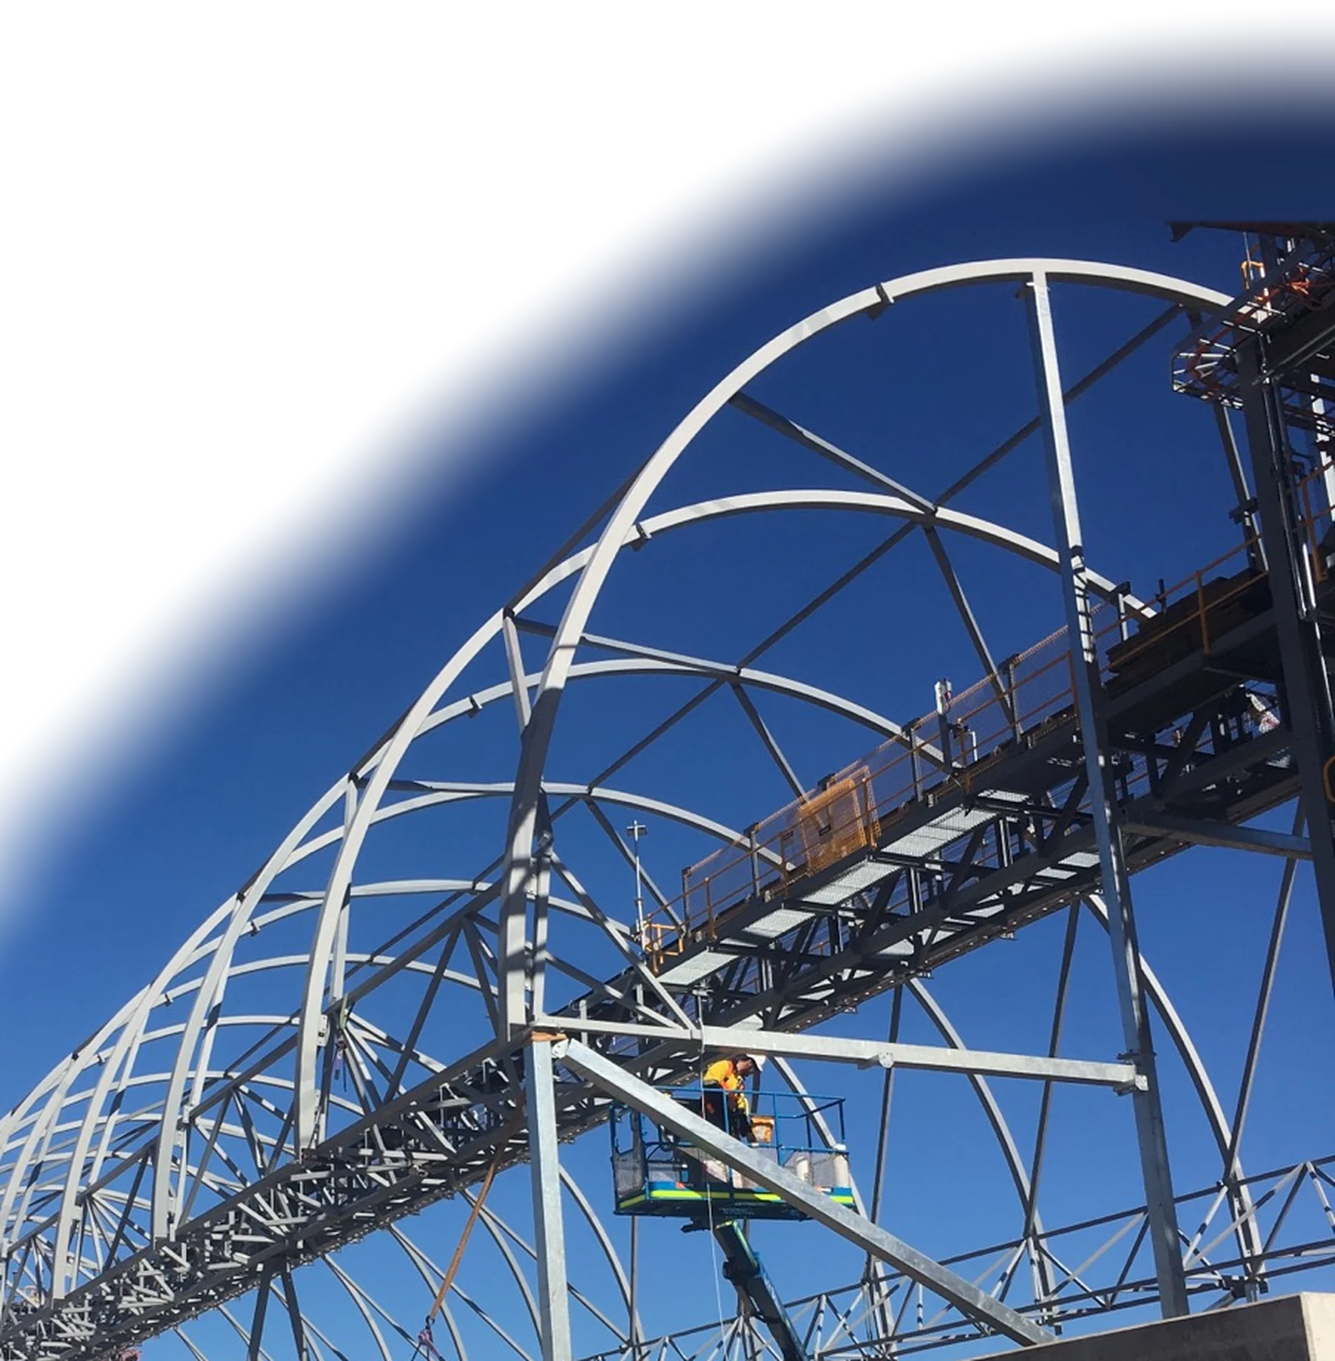
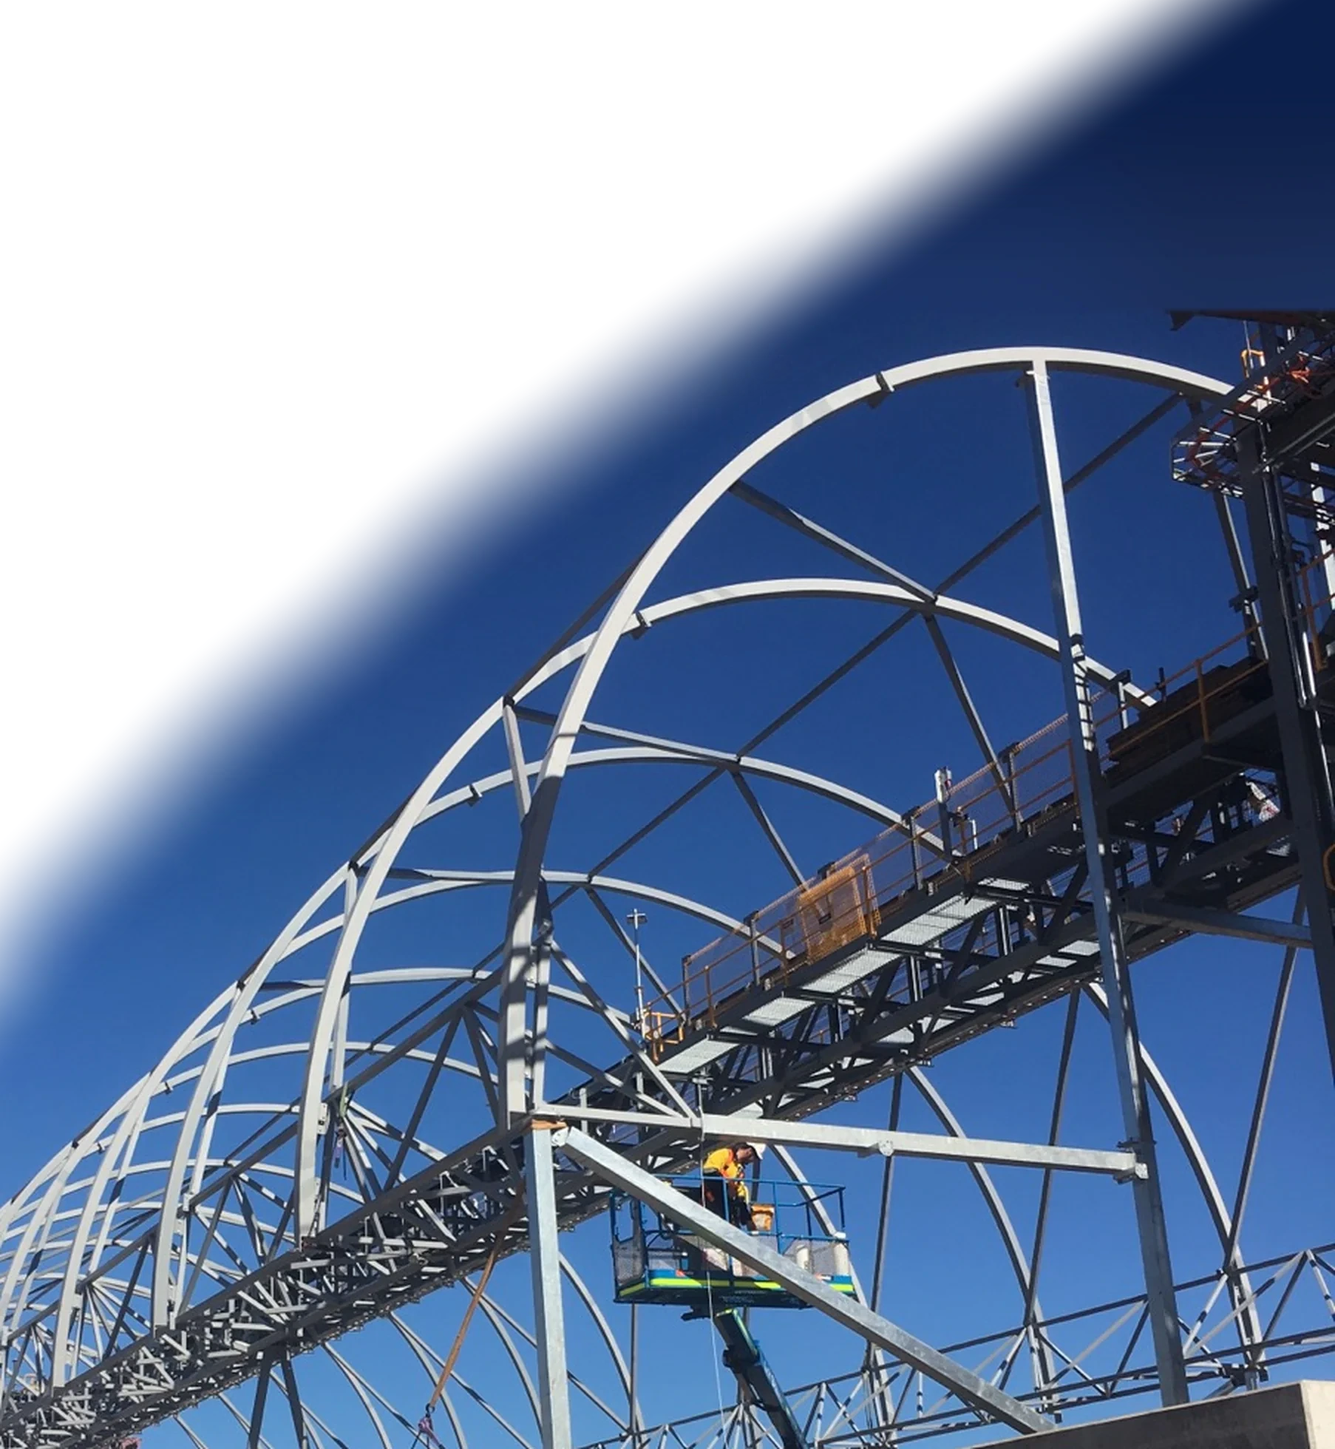
Hero photo: sky deepens to navy at the top and runs under the nav bar; curve fades to white on the left
Claude-Session: https://claude.ai/code/session_0158Fftx2yiYDSvStLzRsbkD

diff --git a/site/index.html b/site/index.html
@@ -2,16 +2,16 @@
 <html lang="en">
 <head>
 <meta charset="utf-8">
-<meta name="build" content="55">
+<meta name="build" content="56">
 <meta name="viewport" content="width=device-width, initial-scale=1, viewport-fit=cover">
 <meta name="description" content="GuruCADD: production drawings, conceptual sales drawings, light gauge modular building design and CAD-to-ERP integration for fabric structures and steel fabricators. Based in Khulna, Bangladesh.">
 <meta property="og:title" content="GuruCADD | Designing Excellence">
 <meta property="og:description" content="CAD and steel detailing for fabric structures, steel frames and modular buildings.">
-<meta property="og:image" content="https://www.gurucadd.com/images/hero-site.webp?v=55">
+<meta property="og:image" content="https://www.gurucadd.com/images/hero-site.webp?v=56">
 <link rel="icon" type="image/png" href="images/favicon.png">
 <link rel="canonical" href="https://www.gurucadd.com/">
 <meta property="og:type" content="website"><meta property="og:url" content="https://www.gurucadd.com/"><meta name="twitter:card" content="summary_large_image">
-<script type="application/ld+json">{"@context":"https://schema.org","@type":"ProfessionalService","name":"GuruCADD","description":"CAD and steel detailing, conceptual sales drawings, light gauge modular building design and CAD-to-ERP integration.","url":"https://www.gurucadd.com/","logo":"https://www.gurucadd.com/images/favicon.png","image":"https://www.gurucadd.com/images/hero-site.webp?v=55","telephone":"+880 1711 902929","email":"info@gurucadd.com","address":{"@type":"PostalAddress","streetAddress":"E4 Khalishpur","addressLocality":"Khulna","postalCode":"9000","addressCountry":"BD"}}</script>
+<script type="application/ld+json">{"@context":"https://schema.org","@type":"ProfessionalService","name":"GuruCADD","description":"CAD and steel detailing, conceptual sales drawings, light gauge modular building design and CAD-to-ERP integration.","url":"https://www.gurucadd.com/","logo":"https://www.gurucadd.com/images/favicon.png","image":"https://www.gurucadd.com/images/hero-site.webp?v=56","telephone":"+880 1711 902929","email":"info@gurucadd.com","address":{"@type":"PostalAddress","streetAddress":"E4 Khalishpur","addressLocality":"Khulna","postalCode":"9000","addressCountry":"BD"}}</script>
 <style>
 :root{padding-top:env(safe-area-inset-top,0px);padding-bottom:env(safe-area-inset-bottom,0px)}
 body{margin:0}
@@ -446,10 +446,10 @@ header.lt .tfpill b{color:#0f2a5c}
 .hero-photo img{border-radius:0;box-shadow:none;width:min(76%,1200px);margin-left:auto;margin-right:0;aspect-ratio:auto;height:auto;max-height:none;min-height:0;object-fit:contain;
 -webkit-mask-image:linear-gradient(to right,transparent 0,#000 34%),linear-gradient(to bottom,transparent 0,#000 12%,#000 82%,transparent 100%);-webkit-mask-composite:source-in;
 mask-image:linear-gradient(to right,transparent 0,#000 34%),linear-gradient(to bottom,transparent 0,#000 12%,#000 82%,transparent 100%);mask-composite:intersect}
-.hero-photo{z-index:0;margin-top:-640px}@media (min-width:901px){.hero-white .hero-copy{min-height:560px;align-content:start;align-items:start;grid-auto-rows:max-content}}
+.hero-photo{z-index:0;margin-top:-720px}@media (min-width:901px){.hero-white .hero-copy{min-height:560px;align-content:start;align-items:start;grid-auto-rows:max-content}}
 .hero .gantt{display:none}
 .hero-photo .ph-tag{z-index:2}
-.hero-photo .ph-right{right:max(24px,calc((100vw - 1200px)/2 + 16px));top:430px}
+.hero-photo .ph-right{right:max(24px,calc((100vw - 1200px)/2 + 16px));top:510px}
 .hero-photo figcaption{margin-top:-70px;position:relative;z-index:2}
 @media (max-width:900px){.hero-photo{margin-top:0}.hero-photo img{width:100%;margin:0}.hero-photo .ph-right{top:70px}}
 /* white hero (remove class "hero-white" from <div class="hero"> or open /?hero=blue to see the blue one) */
@@ -469,7 +469,7 @@ mask-image:linear-gradient(to right,transparent 0,#000 34%),linear-gradient(to b
 </style>
 </head>
 <body>
-<span id="build" class="bld">Ver 0.55.0</span>
+<span id="build" class="bld">Ver 0.56.0</span>
 <header>
   <div class="wrap nav">
     <a class="logo" href="#top" aria-label="GuruCADD home"><img class="dk-logo" src="images/logo-white.png" width="421" height="120" alt="GuruCADD, Designing Excellence"><img class="lt-logo" src="images/logo-color.png" width="878" height="238" alt="" aria-hidden="true"></a>
@@ -494,7 +494,7 @@ mask-image:linear-gradient(to right,transparent 0,#000 34%),linear-gradient(to b
     </div>
   </div>
   <figure class="hero-photo">
-    <img src="images/hero-site.webp?v=55" width="1806" height="1840" alt="Arched steel structure erected on site against a deep blue sky, detailed by GuruCADD">
+    <img src="images/hero-site.webp?v=56" width="1806" height="1960" alt="Arched steel structure erected on site against a deep blue sky, detailed by GuruCADD">
     <span class="ph-tag ph-right">Erected on site</span>
     <figcaption><span class="wrap cap-in"><span class="kicker">From drawing to steel</span><span>Detailed in our office, built exactly as drawn to protect your investment.</span></span></figcaption>
   </figure>

diff --git a/site/about-us.html b/site/about-us.html
@@ -2,16 +2,16 @@
 <html lang="en">
 <head>
 <meta charset="utf-8">
-<meta name="build" content="55">
+<meta name="build" content="56">
 <meta name="viewport" content="width=device-width, initial-scale=1, viewport-fit=cover">
 <meta name="description" content="A Khulna drawing office of architects, engineers and ERP specialists, with industries served and case studies.">
 <meta property="og:title" content="About us | GuruCADD">
 <meta property="og:description" content="CAD and steel detailing for fabric structures, steel frames and modular buildings.">
-<meta property="og:image" content="https://www.gurucadd.com/images/hero-site.webp?v=55">
+<meta property="og:image" content="https://www.gurucadd.com/images/hero-site.webp?v=56">
 <link rel="icon" type="image/png" href="images/favicon.png">
 
 <meta property="og:type" content="website"><meta property="og:url" content="https://www.gurucadd.com/"><meta name="twitter:card" content="summary_large_image">
-<script type="application/ld+json">{"@context":"https://schema.org","@type":"ProfessionalService","name":"GuruCADD","description":"CAD and steel detailing, conceptual sales drawings, light gauge modular building design and CAD-to-ERP integration.","url":"https://www.gurucadd.com/","logo":"https://www.gurucadd.com/images/favicon.png","image":"https://www.gurucadd.com/images/hero-site.webp?v=55","telephone":"+880 1711 902929","email":"info@gurucadd.com","address":{"@type":"PostalAddress","streetAddress":"E4 Khalishpur","addressLocality":"Khulna","postalCode":"9000","addressCountry":"BD"}}</script>
+<script type="application/ld+json">{"@context":"https://schema.org","@type":"ProfessionalService","name":"GuruCADD","description":"CAD and steel detailing, conceptual sales drawings, light gauge modular building design and CAD-to-ERP integration.","url":"https://www.gurucadd.com/","logo":"https://www.gurucadd.com/images/favicon.png","image":"https://www.gurucadd.com/images/hero-site.webp?v=56","telephone":"+880 1711 902929","email":"info@gurucadd.com","address":{"@type":"PostalAddress","streetAddress":"E4 Khalishpur","addressLocality":"Khulna","postalCode":"9000","addressCountry":"BD"}}</script>
 <style>
 :root{padding-top:env(safe-area-inset-top,0px);padding-bottom:env(safe-area-inset-bottom,0px)}
 body{margin:0}
@@ -446,10 +446,10 @@ header.lt .tfpill b{color:#0f2a5c}
 .hero-photo img{border-radius:0;box-shadow:none;width:min(76%,1200px);margin-left:auto;margin-right:0;aspect-ratio:auto;height:auto;max-height:none;min-height:0;object-fit:contain;
 -webkit-mask-image:linear-gradient(to right,transparent 0,#000 34%),linear-gradient(to bottom,transparent 0,#000 12%,#000 82%,transparent 100%);-webkit-mask-composite:source-in;
 mask-image:linear-gradient(to right,transparent 0,#000 34%),linear-gradient(to bottom,transparent 0,#000 12%,#000 82%,transparent 100%);mask-composite:intersect}
-.hero-photo{z-index:0;margin-top:-640px}@media (min-width:901px){.hero-white .hero-copy{min-height:560px;align-content:start;align-items:start;grid-auto-rows:max-content}}
+.hero-photo{z-index:0;margin-top:-720px}@media (min-width:901px){.hero-white .hero-copy{min-height:560px;align-content:start;align-items:start;grid-auto-rows:max-content}}
 .hero .gantt{display:none}
 .hero-photo .ph-tag{z-index:2}
-.hero-photo .ph-right{right:max(24px,calc((100vw - 1200px)/2 + 16px));top:430px}
+.hero-photo .ph-right{right:max(24px,calc((100vw - 1200px)/2 + 16px));top:510px}
 .hero-photo figcaption{margin-top:-70px;position:relative;z-index:2}
 @media (max-width:900px){.hero-photo{margin-top:0}.hero-photo img{width:100%;margin:0}.hero-photo .ph-right{top:70px}}
 /* white hero (remove class "hero-white" from <div class="hero"> or open /?hero=blue to see the blue one) */
@@ -470,7 +470,7 @@ mask-image:linear-gradient(to right,transparent 0,#000 34%),linear-gradient(to b
 <link rel="canonical" href="https://www.gurucadd.com/about-us.html">
 </head>
 <body>
-<span id="build" class="bld">Ver 0.55.0</span>
+<span id="build" class="bld">Ver 0.56.0</span>
 <header>
   <div class="wrap nav">
     <a class="logo" href="index.html" aria-label="GuruCADD home"><img class="dk-logo" src="images/logo-white.png" width="421" height="120" alt="GuruCADD, Designing Excellence"><img class="lt-logo" src="images/logo-color.png" width="878" height="238" alt="" aria-hidden="true"></a>

diff --git a/site/services.html b/site/services.html
@@ -2,16 +2,16 @@
 <html lang="en">
 <head>
 <meta charset="utf-8">
-<meta name="build" content="55">
+<meta name="build" content="56">
 <meta name="viewport" content="width=device-width, initial-scale=1, viewport-fit=cover">
 <meta name="description" content="Production drawings, conceptual sales drawings, ERP integration and light gauge modular building design.">
 <meta property="og:title" content="Services | GuruCADD">
 <meta property="og:description" content="CAD and steel detailing for fabric structures, steel frames and modular buildings.">
-<meta property="og:image" content="https://www.gurucadd.com/images/hero-site.webp?v=55">
+<meta property="og:image" content="https://www.gurucadd.com/images/hero-site.webp?v=56">
 <link rel="icon" type="image/png" href="images/favicon.png">
 
 <meta property="og:type" content="website"><meta property="og:url" content="https://www.gurucadd.com/"><meta name="twitter:card" content="summary_large_image">
-<script type="application/ld+json">{"@context":"https://schema.org","@type":"ProfessionalService","name":"GuruCADD","description":"CAD and steel detailing, conceptual sales drawings, light gauge modular building design and CAD-to-ERP integration.","url":"https://www.gurucadd.com/","logo":"https://www.gurucadd.com/images/favicon.png","image":"https://www.gurucadd.com/images/hero-site.webp?v=55","telephone":"+880 1711 902929","email":"info@gurucadd.com","address":{"@type":"PostalAddress","streetAddress":"E4 Khalishpur","addressLocality":"Khulna","postalCode":"9000","addressCountry":"BD"}}</script>
+<script type="application/ld+json">{"@context":"https://schema.org","@type":"ProfessionalService","name":"GuruCADD","description":"CAD and steel detailing, conceptual sales drawings, light gauge modular building design and CAD-to-ERP integration.","url":"https://www.gurucadd.com/","logo":"https://www.gurucadd.com/images/favicon.png","image":"https://www.gurucadd.com/images/hero-site.webp?v=56","telephone":"+880 1711 902929","email":"info@gurucadd.com","address":{"@type":"PostalAddress","streetAddress":"E4 Khalishpur","addressLocality":"Khulna","postalCode":"9000","addressCountry":"BD"}}</script>
 <style>
 :root{padding-top:env(safe-area-inset-top,0px);padding-bottom:env(safe-area-inset-bottom,0px)}
 body{margin:0}
@@ -446,10 +446,10 @@ header.lt .tfpill b{color:#0f2a5c}
 .hero-photo img{border-radius:0;box-shadow:none;width:min(76%,1200px);margin-left:auto;margin-right:0;aspect-ratio:auto;height:auto;max-height:none;min-height:0;object-fit:contain;
 -webkit-mask-image:linear-gradient(to right,transparent 0,#000 34%),linear-gradient(to bottom,transparent 0,#000 12%,#000 82%,transparent 100%);-webkit-mask-composite:source-in;
 mask-image:linear-gradient(to right,transparent 0,#000 34%),linear-gradient(to bottom,transparent 0,#000 12%,#000 82%,transparent 100%);mask-composite:intersect}
-.hero-photo{z-index:0;margin-top:-640px}@media (min-width:901px){.hero-white .hero-copy{min-height:560px;align-content:start;align-items:start;grid-auto-rows:max-content}}
+.hero-photo{z-index:0;margin-top:-720px}@media (min-width:901px){.hero-white .hero-copy{min-height:560px;align-content:start;align-items:start;grid-auto-rows:max-content}}
 .hero .gantt{display:none}
 .hero-photo .ph-tag{z-index:2}
-.hero-photo .ph-right{right:max(24px,calc((100vw - 1200px)/2 + 16px));top:430px}
+.hero-photo .ph-right{right:max(24px,calc((100vw - 1200px)/2 + 16px));top:510px}
 .hero-photo figcaption{margin-top:-70px;position:relative;z-index:2}
 @media (max-width:900px){.hero-photo{margin-top:0}.hero-photo img{width:100%;margin:0}.hero-photo .ph-right{top:70px}}
 /* white hero (remove class "hero-white" from <div class="hero"> or open /?hero=blue to see the blue one) */
@@ -470,7 +470,7 @@ mask-image:linear-gradient(to right,transparent 0,#000 34%),linear-gradient(to b
 <link rel="canonical" href="https://www.gurucadd.com/services.html">
 </head>
 <body>
-<span id="build" class="bld">Ver 0.55.0</span>
+<span id="build" class="bld">Ver 0.56.0</span>
 <header>
   <div class="wrap nav">
     <a class="logo" href="index.html" aria-label="GuruCADD home"><img class="dk-logo" src="images/logo-white.png" width="421" height="120" alt="GuruCADD, Designing Excellence"><img class="lt-logo" src="images/logo-color.png" width="878" height="238" alt="" aria-hidden="true"></a>

diff --git a/site/contact-us.html b/site/contact-us.html
@@ -2,16 +2,16 @@
 <html lang="en">
 <head>
 <meta charset="utf-8">
-<meta name="build" content="55">
+<meta name="build" content="56">
 <meta name="viewport" content="width=device-width, initial-scale=1, viewport-fit=cover">
 <meta name="description" content="Send a sketch or project details and get a free quote from GuruCADD, Khulna, Bangladesh.">
 <meta property="og:title" content="Contact | GuruCADD">
 <meta property="og:description" content="CAD and steel detailing for fabric structures, steel frames and modular buildings.">
-<meta property="og:image" content="https://www.gurucadd.com/images/hero-site.webp?v=55">
+<meta property="og:image" content="https://www.gurucadd.com/images/hero-site.webp?v=56">
 <link rel="icon" type="image/png" href="images/favicon.png">
 
 <meta property="og:type" content="website"><meta property="og:url" content="https://www.gurucadd.com/"><meta name="twitter:card" content="summary_large_image">
-<script type="application/ld+json">{"@context":"https://schema.org","@type":"ProfessionalService","name":"GuruCADD","description":"CAD and steel detailing, conceptual sales drawings, light gauge modular building design and CAD-to-ERP integration.","url":"https://www.gurucadd.com/","logo":"https://www.gurucadd.com/images/favicon.png","image":"https://www.gurucadd.com/images/hero-site.webp?v=55","telephone":"+880 1711 902929","email":"info@gurucadd.com","address":{"@type":"PostalAddress","streetAddress":"E4 Khalishpur","addressLocality":"Khulna","postalCode":"9000","addressCountry":"BD"}}</script>
+<script type="application/ld+json">{"@context":"https://schema.org","@type":"ProfessionalService","name":"GuruCADD","description":"CAD and steel detailing, conceptual sales drawings, light gauge modular building design and CAD-to-ERP integration.","url":"https://www.gurucadd.com/","logo":"https://www.gurucadd.com/images/favicon.png","image":"https://www.gurucadd.com/images/hero-site.webp?v=56","telephone":"+880 1711 902929","email":"info@gurucadd.com","address":{"@type":"PostalAddress","streetAddress":"E4 Khalishpur","addressLocality":"Khulna","postalCode":"9000","addressCountry":"BD"}}</script>
 <style>
 :root{padding-top:env(safe-area-inset-top,0px);padding-bottom:env(safe-area-inset-bottom,0px)}
 body{margin:0}
@@ -446,10 +446,10 @@ header.lt .tfpill b{color:#0f2a5c}
 .hero-photo img{border-radius:0;box-shadow:none;width:min(76%,1200px);margin-left:auto;margin-right:0;aspect-ratio:auto;height:auto;max-height:none;min-height:0;object-fit:contain;
 -webkit-mask-image:linear-gradient(to right,transparent 0,#000 34%),linear-gradient(to bottom,transparent 0,#000 12%,#000 82%,transparent 100%);-webkit-mask-composite:source-in;
 mask-image:linear-gradient(to right,transparent 0,#000 34%),linear-gradient(to bottom,transparent 0,#000 12%,#000 82%,transparent 100%);mask-composite:intersect}
-.hero-photo{z-index:0;margin-top:-640px}@media (min-width:901px){.hero-white .hero-copy{min-height:560px;align-content:start;align-items:start;grid-auto-rows:max-content}}
+.hero-photo{z-index:0;margin-top:-720px}@media (min-width:901px){.hero-white .hero-copy{min-height:560px;align-content:start;align-items:start;grid-auto-rows:max-content}}
 .hero .gantt{display:none}
 .hero-photo .ph-tag{z-index:2}
-.hero-photo .ph-right{right:max(24px,calc((100vw - 1200px)/2 + 16px));top:430px}
+.hero-photo .ph-right{right:max(24px,calc((100vw - 1200px)/2 + 16px));top:510px}
 .hero-photo figcaption{margin-top:-70px;position:relative;z-index:2}
 @media (max-width:900px){.hero-photo{margin-top:0}.hero-photo img{width:100%;margin:0}.hero-photo .ph-right{top:70px}}
 /* white hero (remove class "hero-white" from <div class="hero"> or open /?hero=blue to see the blue one) */
@@ -470,7 +470,7 @@ mask-image:linear-gradient(to right,transparent 0,#000 34%),linear-gradient(to b
 <link rel="canonical" href="https://www.gurucadd.com/contact-us.html">
 </head>
 <body>
-<span id="build" class="bld">Ver 0.55.0</span>
+<span id="build" class="bld">Ver 0.56.0</span>
 <header>
   <div class="wrap nav">
     <a class="logo" href="index.html" aria-label="GuruCADD home"><img class="dk-logo" src="images/logo-white.png" width="421" height="120" alt="GuruCADD, Designing Excellence"><img class="lt-logo" src="images/logo-color.png" width="878" height="238" alt="" aria-hidden="true"></a>

diff --git a/site/gallery.html b/site/gallery.html
@@ -2,16 +2,16 @@
 <html lang="en">
 <head>
 <meta charset="utf-8">
-<meta name="build" content="55">
+<meta name="build" content="56">
 <meta name="viewport" content="width=device-width, initial-scale=1, viewport-fit=cover">
 <meta name="description" content="Real production, conceptual and modular drawing sheets from GuruCADD projects.">
 <meta property="og:title" content="Drawing samples | GuruCADD">
 <meta property="og:description" content="CAD and steel detailing for fabric structures, steel frames and modular buildings.">
-<meta property="og:image" content="https://www.gurucadd.com/images/hero-site.webp?v=55">
+<meta property="og:image" content="https://www.gurucadd.com/images/hero-site.webp?v=56">
 <link rel="icon" type="image/png" href="images/favicon.png">
 
 <meta property="og:type" content="website"><meta property="og:url" content="https://www.gurucadd.com/"><meta name="twitter:card" content="summary_large_image">
-<script type="application/ld+json">{"@context":"https://schema.org","@type":"ProfessionalService","name":"GuruCADD","description":"CAD and steel detailing, conceptual sales drawings, light gauge modular building design and CAD-to-ERP integration.","url":"https://www.gurucadd.com/","logo":"https://www.gurucadd.com/images/favicon.png","image":"https://www.gurucadd.com/images/hero-site.webp?v=55","telephone":"+880 1711 902929","email":"info@gurucadd.com","address":{"@type":"PostalAddress","streetAddress":"E4 Khalishpur","addressLocality":"Khulna","postalCode":"9000","addressCountry":"BD"}}</script>
+<script type="application/ld+json">{"@context":"https://schema.org","@type":"ProfessionalService","name":"GuruCADD","description":"CAD and steel detailing, conceptual sales drawings, light gauge modular building design and CAD-to-ERP integration.","url":"https://www.gurucadd.com/","logo":"https://www.gurucadd.com/images/favicon.png","image":"https://www.gurucadd.com/images/hero-site.webp?v=56","telephone":"+880 1711 902929","email":"info@gurucadd.com","address":{"@type":"PostalAddress","streetAddress":"E4 Khalishpur","addressLocality":"Khulna","postalCode":"9000","addressCountry":"BD"}}</script>
 <style>
 :root{padding-top:env(safe-area-inset-top,0px);padding-bottom:env(safe-area-inset-bottom,0px)}
 body{margin:0}
@@ -446,10 +446,10 @@ header.lt .tfpill b{color:#0f2a5c}
 .hero-photo img{border-radius:0;box-shadow:none;width:min(76%,1200px);margin-left:auto;margin-right:0;aspect-ratio:auto;height:auto;max-height:none;min-height:0;object-fit:contain;
 -webkit-mask-image:linear-gradient(to right,transparent 0,#000 34%),linear-gradient(to bottom,transparent 0,#000 12%,#000 82%,transparent 100%);-webkit-mask-composite:source-in;
 mask-image:linear-gradient(to right,transparent 0,#000 34%),linear-gradient(to bottom,transparent 0,#000 12%,#000 82%,transparent 100%);mask-composite:intersect}
-.hero-photo{z-index:0;margin-top:-640px}@media (min-width:901px){.hero-white .hero-copy{min-height:560px;align-content:start;align-items:start;grid-auto-rows:max-content}}
+.hero-photo{z-index:0;margin-top:-720px}@media (min-width:901px){.hero-white .hero-copy{min-height:560px;align-content:start;align-items:start;grid-auto-rows:max-content}}
 .hero .gantt{display:none}
 .hero-photo .ph-tag{z-index:2}
-.hero-photo .ph-right{right:max(24px,calc((100vw - 1200px)/2 + 16px));top:430px}
+.hero-photo .ph-right{right:max(24px,calc((100vw - 1200px)/2 + 16px));top:510px}
 .hero-photo figcaption{margin-top:-70px;position:relative;z-index:2}
 @media (max-width:900px){.hero-photo{margin-top:0}.hero-photo img{width:100%;margin:0}.hero-photo .ph-right{top:70px}}
 /* white hero (remove class "hero-white" from <div class="hero"> or open /?hero=blue to see the blue one) */
@@ -470,7 +470,7 @@ mask-image:linear-gradient(to right,transparent 0,#000 34%),linear-gradient(to b
 <link rel="canonical" href="https://www.gurucadd.com/gallery.html">
 </head>
 <body>
-<span id="build" class="bld">Ver 0.55.0</span>
+<span id="build" class="bld">Ver 0.56.0</span>
 <header>
   <div class="wrap nav">
     <a class="logo" href="index.html" aria-label="GuruCADD home"><img class="dk-logo" src="images/logo-white.png" width="421" height="120" alt="GuruCADD, Designing Excellence"><img class="lt-logo" src="images/logo-color.png" width="878" height="238" alt="" aria-hidden="true"></a>
